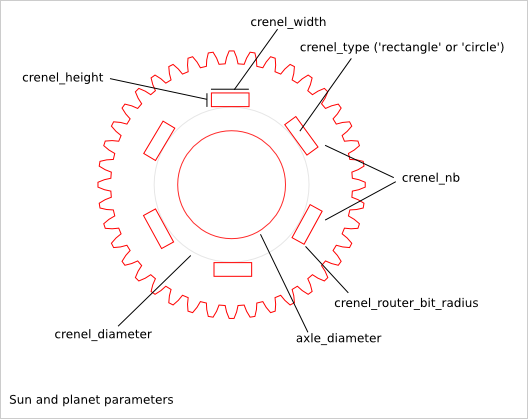
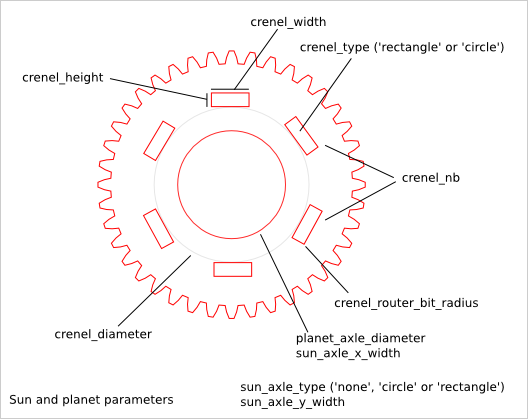
[epicyclic] add sun_axle_type parameter

Changed region(s): [[0.4545, 0.8998, 0.9697, 0.9928], [0.5455, 0.7757, 0.8182, 0.8687]]

diff --git a/cnc25d/epicyclic_gearing.py b/cnc25d/epicyclic_gearing.py
@@ -78,7 +78,10 @@ def epicyclic_gearing_dictionary_init():
   r_egd['gearring_dedendum_to_hollow_pourcentage']  = 0.0
   r_egd['gear_addendum_height_pourcentage']         = 100.0
   ### sun-gear
-  r_egd['sun_axle_diameter']       = 3.0
+  r_egd['sun_axle_type']           = 'circle' # 'none', 'circle' or 'rectangle'
+  r_egd['sun_axle_x_width']        = 3.0
+  r_egd['sun_axle_y_width']        = 3.0
+  #r_egd['sun_axle_diameter']       = 3.0
   r_egd['sun_crenel_nb']           = 8
   r_egd['sun_crenel_type']         = 'rectangle' # 'rectangle' or 'circle'
   r_egd['sun_crenel_diameter']     = 0.0
@@ -165,8 +168,14 @@ def epicyclic_gearing_add_argument(ai_parser):
   r_parser.add_argument('--gear_addendum_height_pourcentage','--gadhp', action='store', type=float, default=100.0, dest='sw_gear_addendum_height_pourcentage',
     help="Set the gear_addendum_height_pourcentage of the sun-gear, planet-gear and annulus-gear. Use it to compensate gear_skin_thickness. Default: 100.0")
   ### sun-gear
-  r_parser.add_argument('--sun_axle_diameter','--sad', action='store', type=float, default=0.0, dest='sw_sun_axle_diameter',
-    help="Set the diameter of the sun-gear cylindrical axle. Default: 0.0")
+  r_parser.add_argument('--sun_axle_type','--sat', action='store', default='circle', dest='sw_sun_axle_type',
+    help="Select the type of axle for the sun-gear. Possible values: 'none', 'circle' and 'rectangle'. Default: 'circle'")
+  r_parser.add_argument('--sun_axle_x_width','--saxw', action='store', type=float, default=3.0, dest='sw_sun_axle_x_width',
+    help="Set the axle cylinder diameter or the axle rectangle x-width of the sun-gear. Default: 3.0")
+  r_parser.add_argument('--sun_axle_y_width','--sayw', action='store', type=float, default=3.0, dest='sw_sun_axle_y_width',
+    help="Set the axle rectangle y-width of the sun-gear. Default: 3.0")
+  #r_parser.add_argument('--sun_axle_diameter','--sad', action='store', type=float, default=0.0, dest='sw_sun_axle_diameter',
+  #  help="Set the diameter of the sun-gear cylindrical axle. Default: 0.0")
   r_parser.add_argument('--sun_crenel_nb','--scn', action='store', type=int, default=0, dest='sw_sun_crenel_nb',
     help="Set the number of sun-crenels. If equal to zero, no sun-crenel is created. Default: 0")
   r_parser.add_argument('--sun_crenel_type','--sct', action='store', default='rectangle', dest='sw_sun_crenel_type',
@@ -404,10 +413,9 @@ def epicyclic_gearing(ai_constraints):
   sg_c['gear_skin_thickness']       = eg_c['gear_skin_thickness']
   sg_c['gear_addendum_dedendum_parity']         = addendum_dedendum_parity
   sg_c['second_gear_addendum_dedendum_parity']  = addendum_dedendum_parity
-  sg_c['axle_type']                 = 'none' # axle
-  if(eg_c['sun_axle_diameter']>0):
-    sg_c['axle_type']               = 'circle'
-  sg_c['axle_x_width']              = eg_c['sun_axle_diameter']
+  sg_c['axle_type']                 = eg_c['sun_axle_type'] # axle
+  sg_c['axle_x_width']              = eg_c['sun_axle_x_width']
+  sg_c['axle_y_width']              = eg_c['sun_axle_y_width']
   sg_c['axle_router_bit_radius']    = sun_crenel_router_bit_radius
   sg_c['crenel_diameter']           = eg_c['sun_crenel_diameter'] # crenel
   sg_c['crenel_number']             = eg_c['sun_crenel_nb']
@@ -901,7 +909,10 @@ def epicyclic_gearing_argparse_to_dictionary(ai_eg_args):
   r_egd['gearring_dedendum_to_hollow_pourcentage']  =  ai_eg_args.sw_gearring_dedendum_to_hollow_pourcentage
   r_egd['gear_addendum_height_pourcentage']         =  ai_eg_args.sw_gear_addendum_height_pourcentage
   ### sun-gear
-  r_egd['sun_axle_diameter']       = ai_eg_args.sw_sun_axle_diameter
+  r_egd['sun_axle_type']           = ai_eg_args.sw_sun_axle_type
+  r_egd['sun_axle_x_width']        = ai_eg_args.sw_sun_axle_x_width
+  r_egd['sun_axle_y_width']        = ai_eg_args.sw_sun_axle_y_width
+  #r_egd['sun_axle_diameter']       = ai_eg_args.sw_sun_axle_diameter
   r_egd['sun_crenel_nb']           = ai_eg_args.sw_sun_crenel_nb
   r_egd['sun_crenel_type']         = ai_eg_args.sw_sun_crenel_type
   r_egd['sun_crenel_diameter']     = ai_eg_args.sw_sun_crenel_diameter
@@ -977,7 +988,7 @@ def epicyclic_gearing_self_test():
   """
   test_case_switch = [
     ["simplest test"        , "--sun_gear_tooth_nb 20 --planet_gear_tooth_nb 31 --gear_module 1.0 --planet_nb 3"],
-    ["sun crenel"           , "--sun_gear_tooth_nb 19 --planet_gear_tooth_nb 31 --gear_module 1.0 --sun_axle_diameter 6 --sun_crenel_nb 2"],
+    ["sun crenel"           , "--sun_gear_tooth_nb 19 --planet_gear_tooth_nb 31 --gear_module 1.0 --sun_axle_x_width 6 --sun_crenel_nb 2"],
     ["planet crenel"        , "--sun_gear_tooth_nb 19 --planet_gear_tooth_nb 31 --gear_module 1.0 --planet_axle_diameter 8 --planet_crenel_nb 5"],
     ["gearring crenel"      , "--sun_gear_tooth_nb 23 --planet_gear_tooth_nb 31 --gear_module 1.0 --holder_crenel_number 4"],
     ["carrier with peripheral and crenel", "--sun_gear_tooth_nb 20 --planet_gear_tooth_nb 31 --gear_module 1.0 --planet_nb 3"],
@@ -985,7 +996,7 @@ def epicyclic_gearing_self_test():
     ["carrier without peripheral and with crenel", "--sun_gear_tooth_nb 19 --planet_gear_tooth_nb 31 --gear_module 1.0 --carrier_peripheral_disable --carrier_central_diameter 30.0"],
     ["carrier without peripheral and crenel", "--sun_gear_tooth_nb 19 --planet_gear_tooth_nb 31 --gear_module 1.0 --carrier_peripheral_disable --carrier_crenel_height 0 --carrier_central_diameter 30.0"],
     ["carrier without peripheral and small central circle", "--sun_gear_tooth_nb 19 --planet_gear_tooth_nb 31 --gear_module 1.0 --carrier_peripheral_disable --carrier_central_diameter 20.0"],
-    ["sun crenel circle"    , "--sun_gear_tooth_nb 19 --planet_gear_tooth_nb 31 --gear_module 1.0 --sun_axle_diameter 8 --sun_crenel_nb 6 --sun_crenel_type circle --sun_crenel_width 1.9 --sun_crenel_diameter 12"],
+    ["sun crenel circle"    , "--sun_gear_tooth_nb 19 --planet_gear_tooth_nb 31 --gear_module 1.0 --sun_axle_x_width 8 --sun_crenel_nb 6 --sun_crenel_type circle --sun_crenel_width 1.9 --sun_crenel_diameter 12"],
     ["carrier crenel hole"  , "--sun_gear_tooth_nb 19 --planet_gear_tooth_nb 31 --gear_module 1.0 --carrier_hole_diameter 1.9"],
     ["gear simulation"      , "--sun_gear_tooth_nb 19 --planet_gear_tooth_nb 33 --gear_module 1.0 --gear_addendum_dedendum_parity_slack 1.5 --simulation_annulus_planet_gear"],
     ["output file"          , "--sun_gear_tooth_nb 21 --planet_gear_tooth_nb 31 --gear_module 1.0 --output_file_basename test_output/epicyclic_self_test.dxf"],
@@ -1038,7 +1049,7 @@ if __name__ == "__main__":
   #my_eg = epicyclic_gearing_cli()
   #my_eg = epicyclic_gearing_cli("--sun_gear_tooth_nb 19 --planet_gear_tooth_nb 31 --return_type freecad_object".split())
   #my_eg = epicyclic_gearing_cli("--sun_gear_tooth_nb 19 --planet_gear_tooth_nb 31 --gear_module 1.0".split())
-  my_eg = epicyclic_gearing_cli("--sun_gear_tooth_nb 19 --planet_gear_tooth_nb 31 --gear_module 1.0 --sun_axle_diameter 10 --sun_crenel_nb 4 --sun_crenel_height 1.0 --sun_crenel_width 3.0".split())
+  my_eg = epicyclic_gearing_cli("--sun_gear_tooth_nb 19 --planet_gear_tooth_nb 31 --gear_module 1.0 --sun_axle_x_width 10 --sun_crenel_nb 4 --sun_crenel_height 1.0 --sun_crenel_width 3.0".split())
   #Part.show(my_eg)
   try: # depending on eg_c['return_type'] it might be or not a freecad_object
     Part.show(my_eg)

diff --git a/bin/cnc25d_example_generator.py b/bin/cnc25d_example_generator.py
@@ -1850,7 +1850,9 @@ eg_constraint['gear_addendum_dedendum_parity_slack']      = 0.0
 eg_constraint['gearring_dedendum_to_hollow_pourcentage']  = 0.0
 eg_constraint['gear_addendum_height_pourcentage']         = 100.0
 ### sun-gear
-eg_constraint['sun_axle_diameter']       = 12.0
+eg_constraint['sun_axle_type']           = 'circle' # 'none', 'circle' or 'rectangle'
+eg_constraint['sun_axle_x_width']        = 12.0
+eg_constraint['sun_axle_y_width']        = 0.0
 eg_constraint['sun_crenel_nb']           = 4
 eg_constraint['sun_crenel_type']         = 'rectangle' # 'rectangle' or 'circle'
 eg_constraint['sun_crenel_diameter']     = 0.0

diff --git a/cnc25d/tests/epicyclic_gearing_macro.py b/cnc25d/tests/epicyclic_gearing_macro.py
@@ -100,7 +100,9 @@ eg_constraint['gear_addendum_dedendum_parity_slack']      = 0.0
 eg_constraint['gearring_dedendum_to_hollow_pourcentage']  = 0.0
 eg_constraint['gear_addendum_height_pourcentage']         = 100.0
 ### sun-gear
-eg_constraint['sun_axle_diameter']       = 12.0
+eg_constraint['sun_axle_type']           = 'circle' # 'none', 'circle' or 'rectangle'
+eg_constraint['sun_axle_x_width']        = 12.0
+eg_constraint['sun_axle_y_width']        = 0.0
 eg_constraint['sun_crenel_nb']           = 4
 eg_constraint['sun_crenel_type']         = 'rectangle' # 'rectangle' or 'circle'
 eg_constraint['sun_crenel_diameter']     = 0.0

diff --git a/cnc25d/gearwheel.py b/cnc25d/gearwheel.py
@@ -67,7 +67,7 @@ def gearwheel_dictionary_init():
   r_gwd.update(gear_profile.gear_profile_dictionary_init())
   #### gearwheel dictionary entries
   ### axle
-  r_gwd['axle_type']                = 'circle'
+  r_gwd['axle_type']                = 'none' # 'none', 'circle', 'rectangle'
   r_gwd['axle_x_width']             = 10.0
   r_gwd['axle_y_width']             = 10.0
   r_gwd['axle_router_bit_radius']   = 0.1
